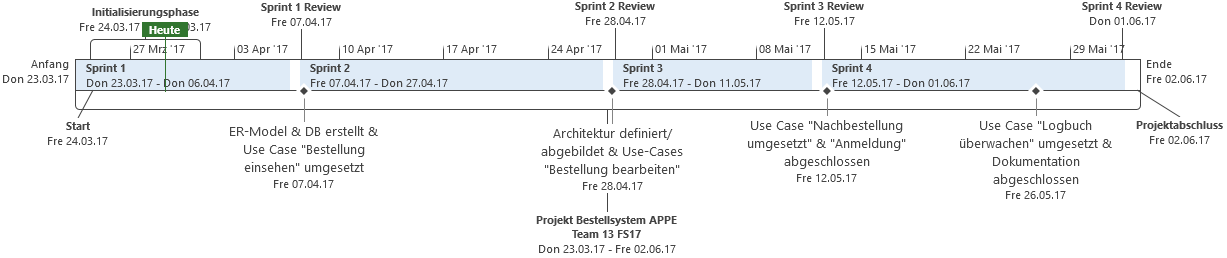
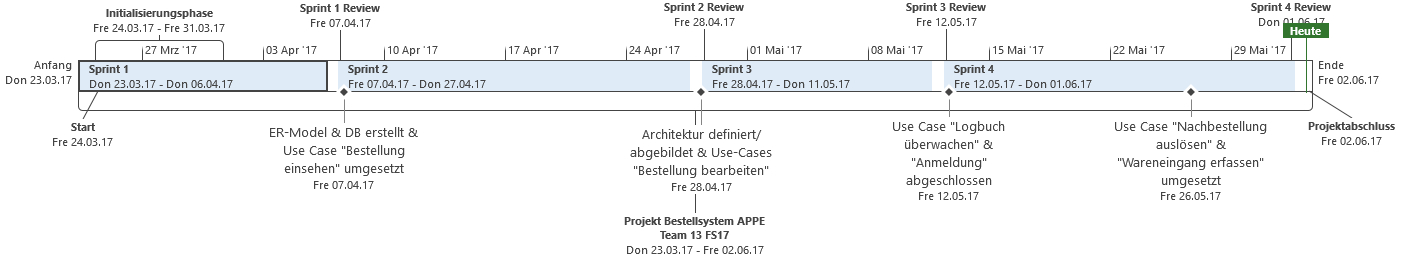
fixed rahmeplan & typo

diff --git a/Dokumentation/PMP/Ziele/Projektfuhrung.tex b/Dokumentation/PMP/Ziele/Projektfuhrung.tex
@@ -7,7 +7,8 @@ ein Rahmenplan definiert.
 \begin{figure}[H]%Position festigen
 \centering
 \includegraphics[width=1.0\textwidth]{Images/GroberTerminplan.png}
-\label{fig:title}
+\label{fig:projectplan}
+\caption{Projektplan}
 \end{figure}
 Das Projekt wird vom 23.03.2017 bis am 02.06.2017 durchgeführt. Zur regelmässigen Kontrolle \& Planung wird die Projektdauer in vier Entwicklungssprints unterteilt. Auf dem Weg zur finalen Version werden ebenfalls vier Meilensteine wie folgt gesetzt:
 \begin{enumerate}
@@ -15,10 +16,10 @@ Das Projekt wird vom 23.03.2017 bis am 02.06.2017 durchgeführt. Zur regelmässi
 Neben den Initialisierungsaufgaben wie Erstellung PMP \& SysSpec und initiale Anforderungsaufnahme liegt die DB anhand des vorgängig erstellten ER-Modell vor. Weiter ist der erste Use Case 'Bestellungen auflisten' umgesetzt
 \item Meilenstein 2 \textit{Architektur definiert \& Use Case 'Bestellung ansehen \& bearbeiten' umgesetzt}\\
 Neben der Layer- \& Tierarchitektur, Komponentenschnitt ist der Use Case 'Bestellung bearbeiten' vollständig umgesetzt. 
-\item Meilenstein 3 \textit{Use Case 'Nachbestellung' \& 'Anmeldung' umgesetzt} \\
-Alle Use Cases bis auf 'Logbuch überwachen' sind umgesetzt. Erste Integrations- \& Systemtests sind ausgeführt.
-\item Meilenstein 4 \textit{Use Case 'Logbuch überwachen' \& Dokumentation abgeschlossen}\\
-Neben dem letzten Use Case 'Logbuch überwachen' werden alle Integrations- \& Systemtests durchgeführt. Abschliessend liegen die SysSpec und der PMP vor.
+\item Meilenstein 3 \textit{Use Case 'Logbuch überwachen' \& 'Anmeldung' umgesetzt} \\
+Alle Use Cases bis auf 'Nachbestellung auslösen' sind umgesetzt. Erste Integrations- \& Systemtests sind ausgeführt.
+\item Meilenstein 4 \textit{Use Case 'Nachbestellung auslösen' \& 'Wareneingang erfassen' abgeschlossen}\\
+Neben den beiden letzten Use Cases 'Nachbestellung auslösen' \& 'Wareneingang erfassen' werden alle Integrations- \& Systemtests durchgeführt. Abschliessend liegen die SysSpec und der PMP vor.
 \end{enumerate}
 \clearpage
 \subsection{Projektkontrolle}

diff --git a/Dokumentation/PMP/Testing/Testprotokoll-20170601.tex b/Dokumentation/PMP/Testing/Testprotokoll-20170601.tex
@@ -65,7 +65,7 @@ Alle Testfälle konnten erfolgreich durchgeführt werden. Teils sind noch kleine
 		 wurde erfolgreich aktualisiert. \\ \end{tabular} \\
 	\hline 
 	S2 & Automatische Nachbestellung auslösen & OK & \begin{tabular}{l}Eine Nachbestellung wird erfolgreich bei \\
-		Unterschreitung von Menge 2\\ \end{tabular} \\ 
+		Unterschreitung von Menge 2 ausgelöst \end{tabular} \\ 
 	\hline 
 	S3 & Bestellung bearbeiten & OK & \begin{tabular}{l}Bei Bestellung von mehr als im Filiallager\\
 		 verfügbarer Menge wird neben dem ge-\\
